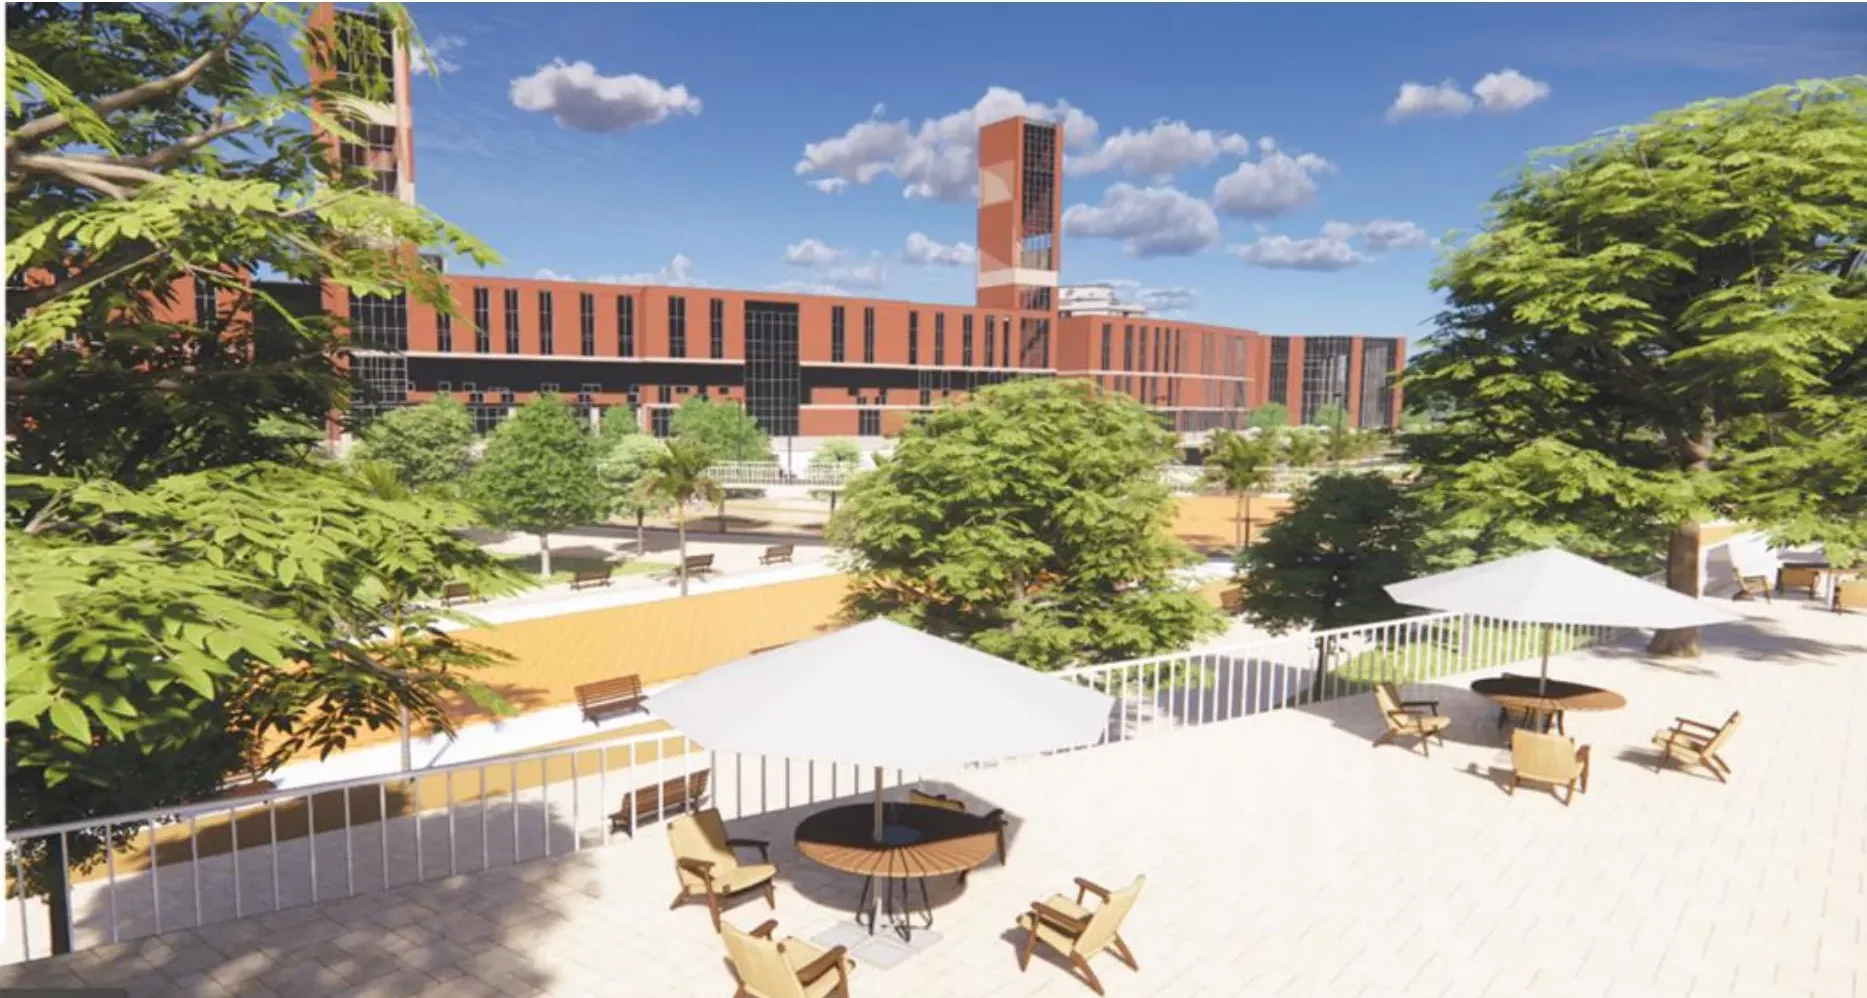
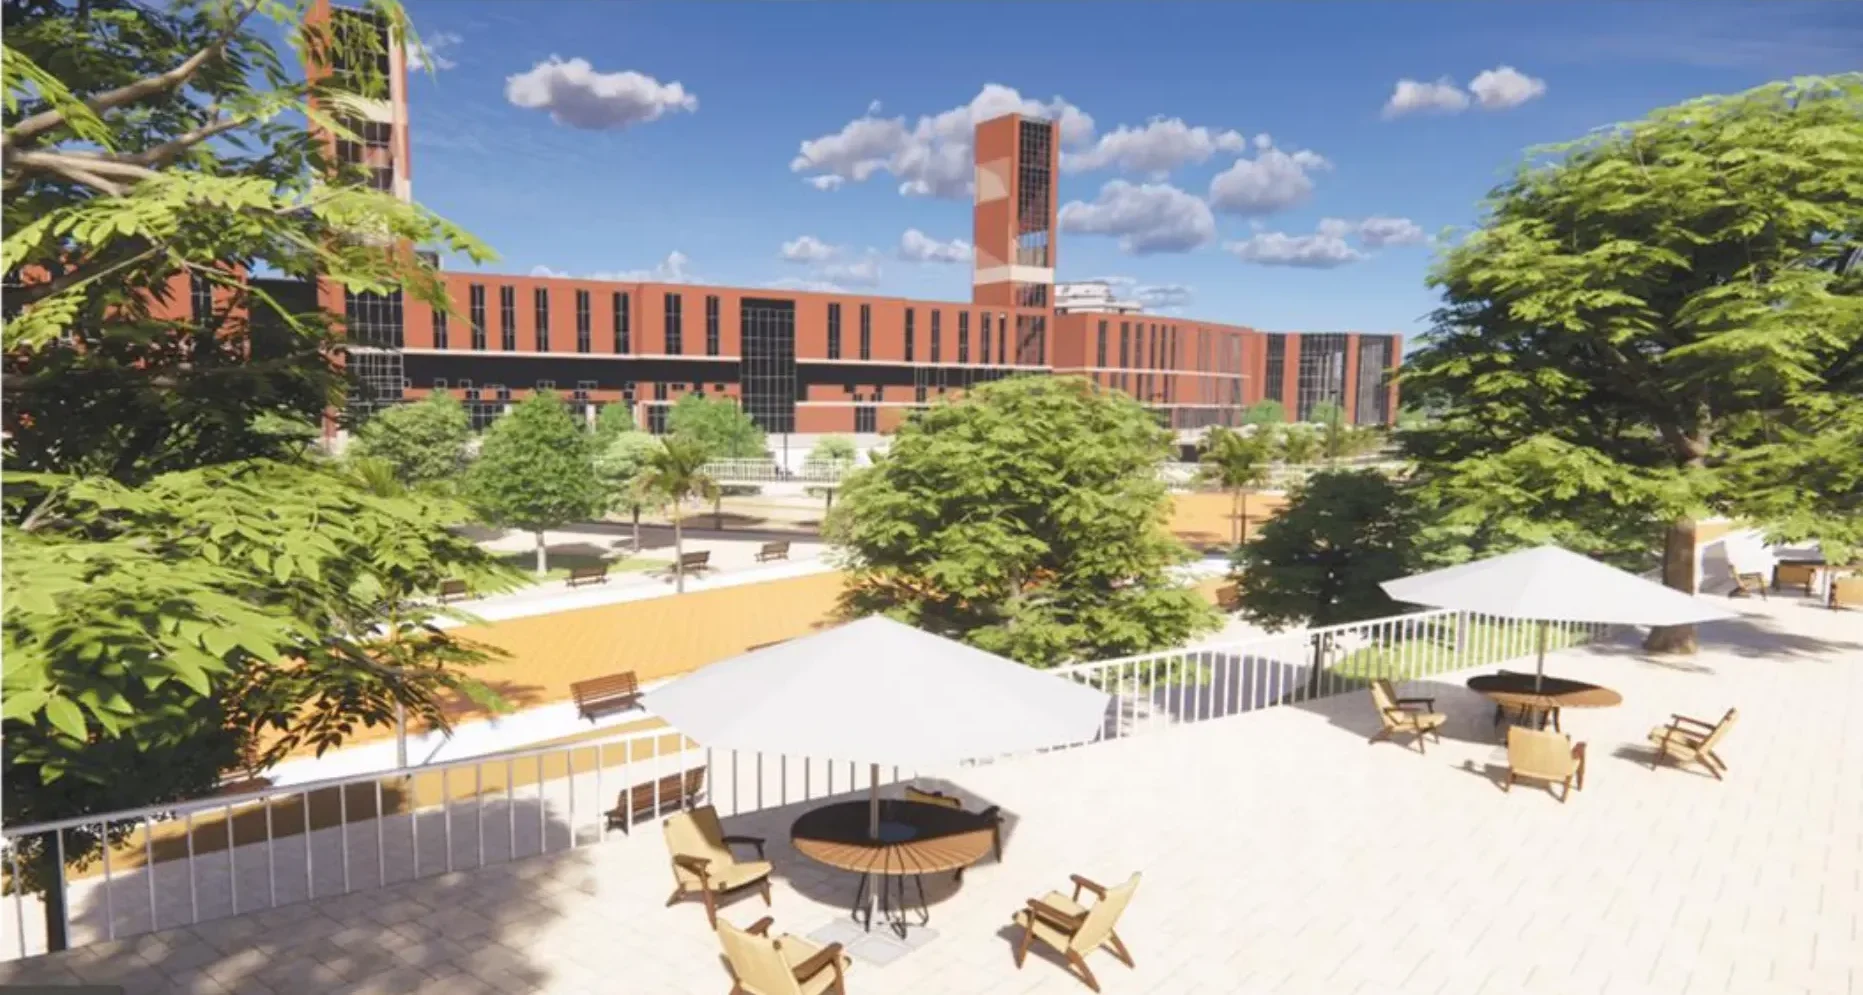
Trim white edge from Minet El Basal cover
Claude-Session: https://claude.ai/code/session_01U5CkFzGBaB6VJcbEUdtjWu

diff --git a/src/content/projects.ts b/src/content/projects.ts
@@ -75,7 +75,7 @@ export const projects: Project[] = [
     desc: 'Reviving a historic port district around textile and fashion industry, with a new waterfront.',
     cover: '/covers/minet.webp',
     coverAlt: 'Render of a public plaza in front of restored red-brick warehouses in Minet El Basal',
-    coverSize: [1867, 998],
+    coverSize: [1863, 995],
     page: {
       lead: 'Revitalizing the historic district of Minet El Basal in Alexandria’s Western Harbour around textile and fashion industry, with a new waterfront for the city.',
       tags: ['Urban regeneration', 'Waterfront design', 'Heritage', 'Textile & fashion industry'],
